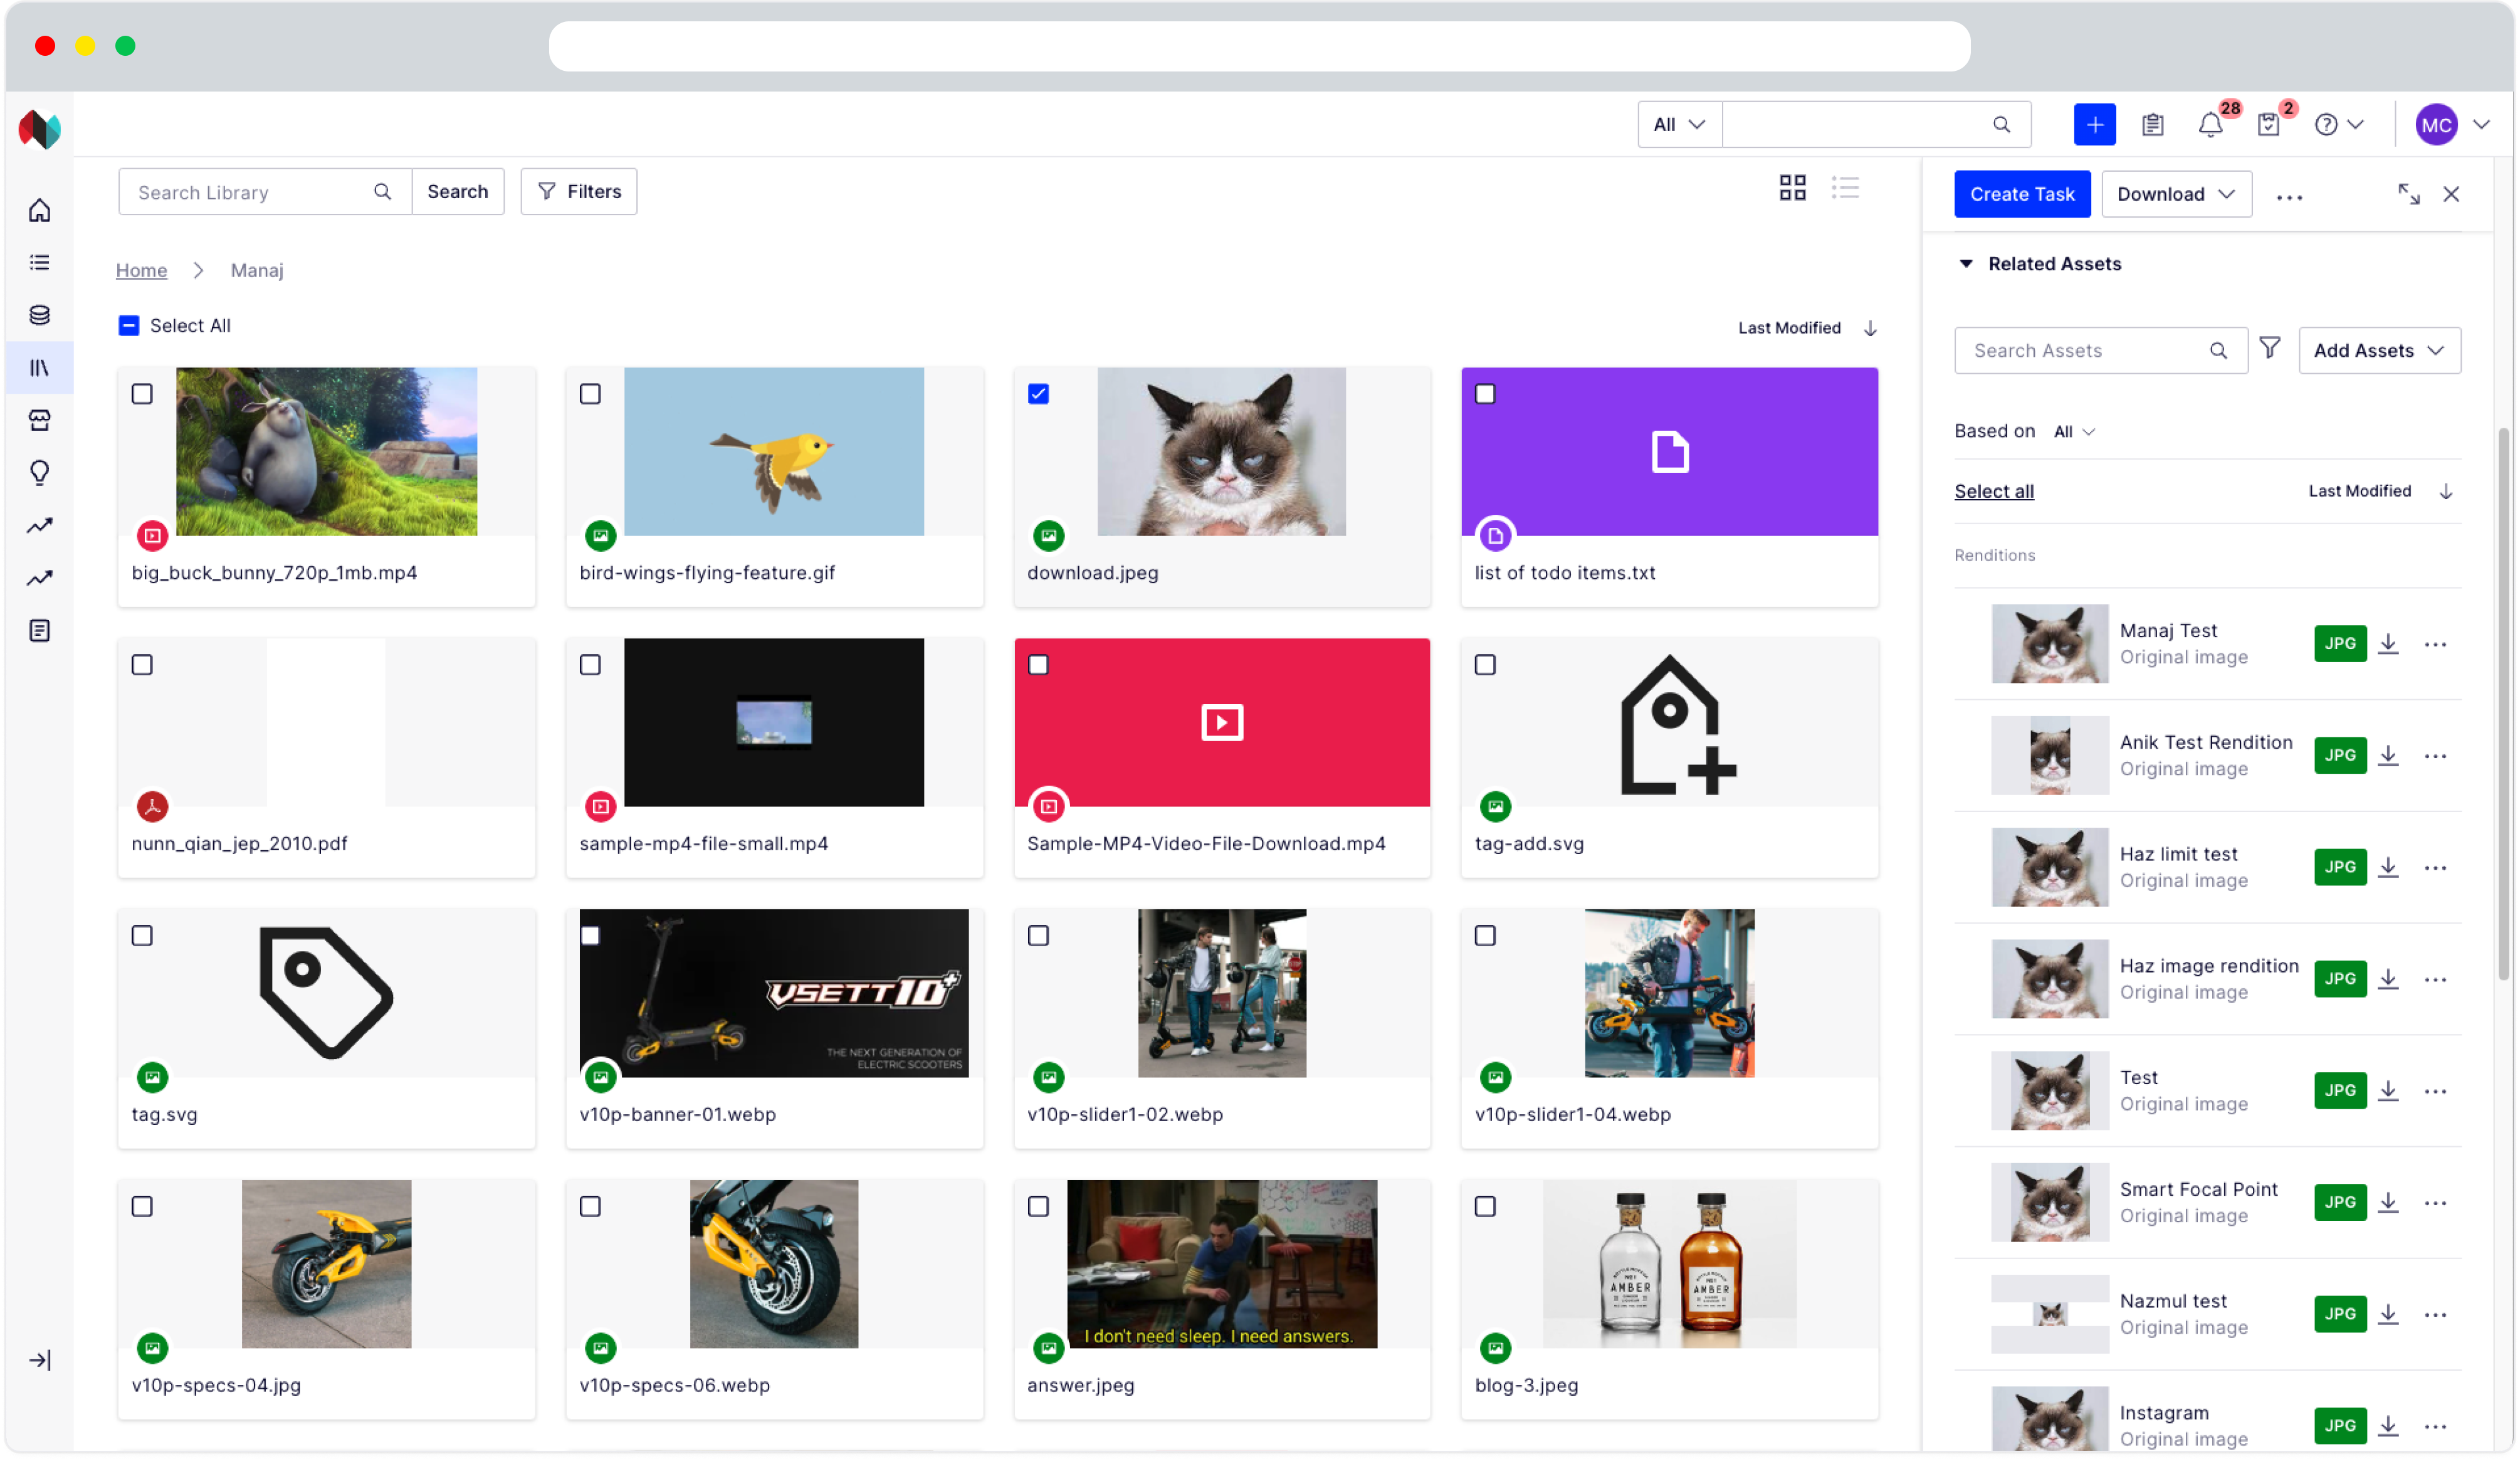
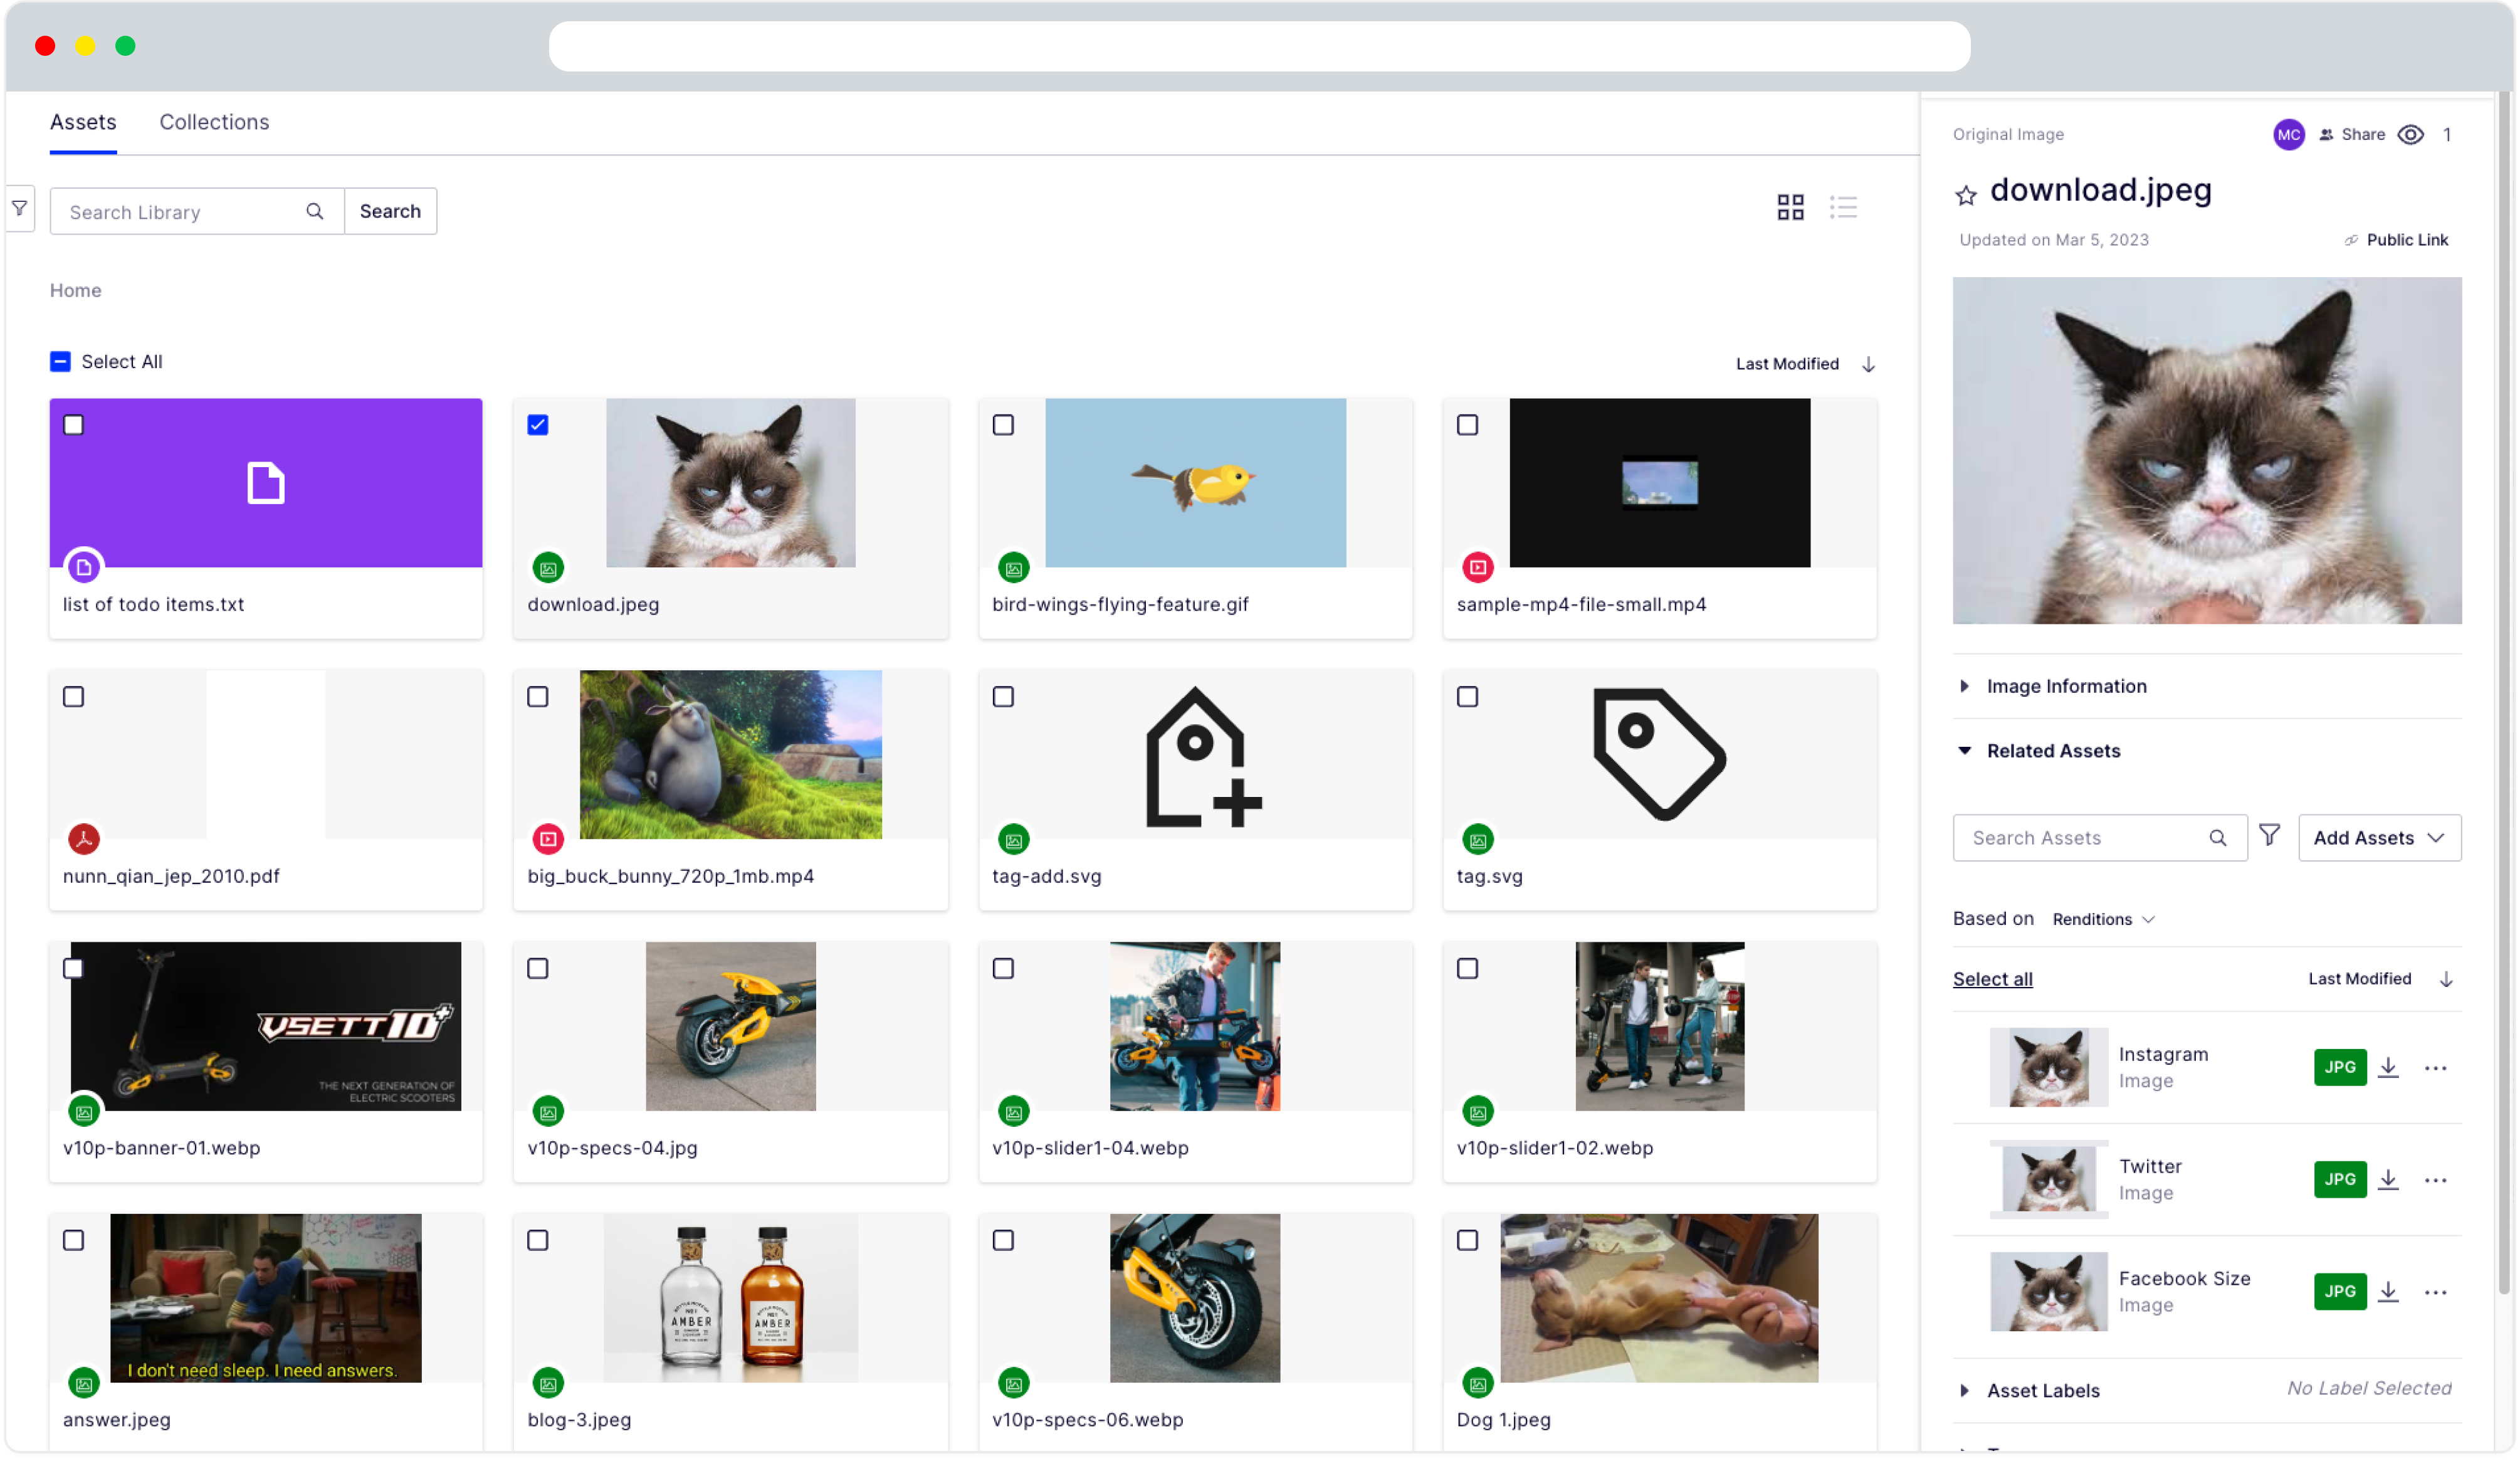
Added rendition page updates

diff --git a/src/styles/components/_type.scss b/src/styles/components/_type.scss
@@ -8,12 +8,18 @@ h1, h3, h4, h5 {
   font-weight: 500;
 }
 
+h1 {
+  font-size: var(--spacer-three);
+  line-height: var(--spacer-three);
+  font-weight: 500;
+  margin: var(--spacer-one) 0 var(--spacer-twoandquarter) 0;
+}
+
 h2 {
   font-size: var(--spacer-twoandquarter);
   line-height: var(--spacer-three);
   font-weight: 400;
-  margin: var(--spacer-twoandquarter) 0 0 0;
-  
+  margin: var(--spacer-twoandquarter) 0 var(--spacer-twoandquarter) 0;
 }
 
 h3 {
@@ -42,6 +48,64 @@ h5 {
 
 a {
   display: block;
+  color: var(--color-black);
+  text-decoration: none;
+
+  &:hover {
+    text-decoration: underline;
+  }
+}
+
+ figcaption {
+   margin: var(--spacer-one) 0;
+   text-align: left;
+   font-size: var(--spacer-one);
+   font-family: var(--font-primary);
+   font-weight: 300;
+ }
+ 
+ p {
+   font-size: var(--spacer-oneandquarter);
+   line-height: var(--spacer-two);
+   font-weight: var(--font-light);
+   font-family: var(--font-primary);
+   letter-spacing: var(--font-letter-spacing-3);
+
+   &:last-child {
+     margin-bottom: var(--spacer-five);
+   }
+ }
+
+article {
+  .subheading {
+      font-size: var(--spacer-two);
+      font-weight: 300;
+      line-height: var(--spacer-twoandhalf);
+      margin: var(--spacer-two) 0 var(--spacer-two) 0;
+      color: var(--color-gray-900);
+    }
+
+    p {
+      font-size: var(--spacer-oneandquarter);
+      line-height: var(--spacer-two);
+      font-weight: var(--font-light);
+      font-family: var(--font-primary);
+      letter-spacing: var(--font-letter-spacing-3);
+
+      &:last-child {
+        margin-bottom: var(--spacer-five);
+      }
+    }
+
+    h3 {
+      margin-top: var(--spacer-four);
+    }
+}
+
+a {
+  text-decoration: none;
+  font-weight: 500;
+  color: var(--color-blue);
 
   &:hover {
     text-decoration: underline;

diff --git a/src/styles/workspages.scss b/src/styles/workspages.scss
@@ -9,6 +9,39 @@
 "components/utility",
 "components/footer";
 
+body {
+    background-color: var(--color-gray-100);
+}
+
 header {
     margin: var(--spacer-three) 0 var(--spacer-two) 0;
+    background-color: var(--color-gray-100);
+}
+
+.workspage {
+    min-height: 20vw;
+    background-color: var(--color-gray-100);
+    position: relative;
+
+    section.inner {
+        display: grid;
+        grid: auto-flow / 1fr 3fr;
+        margin: var(--spacer-two) auto 0 auto;
+    }
+
+    .article-navigation {
+        @extend h5;
+        position: relative;
+        font-weight: 400;
+        margin-right: var(--spacer-oneandhalf);
+        
+        li {
+            padding: var(--spacer-half) 0;
+        }
+
+        ul {
+            position: sticky;
+            top: var(--spacer-five);
+        }
+    }   
 }

diff --git a/src/styles/components/_variables.scss b/src/styles/components/_variables.scss
@@ -1,8 +1,11 @@
 $font: (
-    "primary": "'DM Sans', SF Pro, Helvetica, Calibri, Arial, sans-serif;",
+    "primary": "'DM Sans', Helvetica, Calibri, Arial, sans-serif;",
     "secondary": "'Urbanist', Century Gothic, Helvetica, system-ui;",
     "letter-spacing-4": "-0.04rem;",
-    "letter-spacing-3": "-0.03rem;"
+    "letter-spacing-3": "-0.03rem;",
+    "medium": "500",
+    "normal": "400",
+    "light": "300"
 );
 
 $colors: (
@@ -11,21 +14,26 @@ $colors: (
     "yellow-lighter": "#FFE700;",
     "yellow-light": "#FFF122;",
     "indigo": "#E4F3F1;",
+    "turquoise": "#32E2C3;",
+    "blue": '#0057A8;',
     "black": "#171921;",
     "white": "#ffffff;",
-    "turquoise": "#32E2C3;",
-    "blue": '#0057A8;'
-    ) !default;
+    "gray-100":'#F4F4F2;',
+    "gray-900":'#515151;',
+    )!default;
     
 $spacer: 1rem;
 $spacers: (
     "zero" : 0,
     "quarter": $spacer * .25,
     "half": $spacer * .5,
+    "threequarter": $spacer * .75,
     "one": $spacer,
+    "oneandquarter": $spacer * 1.25,
     "oneandhalf": $spacer * 1.5,
     "two": $spacer * 2,
     "twoandquarter": $spacer * 2.25,
+    "twoandhalf": $spacer * 2.5,
     "three": $spacer * 3,
     "four": $spacer * 4,
     "five": $spacer * 5

diff --git a/src/styles/components/_utility.scss b/src/styles/components/_utility.scss
@@ -10,11 +10,12 @@
     width: var(--logo-width);
 }
 
-footer a {
-    padding: var(--spacer-quarter) var(--spacer-half);
+figure {
+    margin: var(--spacer-two) 0 var(--spacer-two) 0;
+}
+
+.fancy {
     text-decoration: none;
-    font-weight: 500;
-    color: var(--color-blue);
     box-shadow: inset 0 0 0 0 var(--color-yellow);
     transition: color .3s ease-in-out, box-shadow .3s ease-in-out;
     border-radius: var(--spacer-quarter);

diff --git a/src/styles/components/_footer.scss b/src/styles/components/_footer.scss
@@ -1,5 +1,10 @@
 footer {
-    margin: var(--spacer-three) auto;
+    padding: var(--spacer-two) 0;
+    background-color: var(--color-white);
+
+    a {
+        padding: var(--spacer-quarter) var(--spacer-half);
+    }
 }
 
 .credits, .contact {

diff --git a/src/styles/components/_grid.scss b/src/styles/components/_grid.scss
@@ -3,10 +3,9 @@
 }
 
 .box {
-    background-color: var(--color-white);
     margin-right: auto;
     margin-left: auto;
-    width: 100%;
+    box-sizing: border-box;
     @extend .grid;
 
     .inner {

diff --git a/public/scripts/homepage.js b/public/scripts/homepage.js
@@ -55,7 +55,7 @@ function paralox (){
 
             });
 
-            if (speed > ((coverHeight - logoHeight) - 80)) {
+            if (speed > ((coverHeight - logoHeight) - 180)) {
                 $('.cover').addClass('fix');
             } else {
                 $('.cover').removeClass('fix');

diff --git a/src/styles/components/_fonts.scss b/src/styles/components/_fonts.scss
@@ -1,1 +1,1 @@
-@import url('https://fonts.googleapis.com/css2?family=DM+Sans:wght@400;500&family=Urbanist:wght@300;400;500&display=swap');
+@import url('https://fonts.googleapis.com/css2?family=DM+Sans:wght@300;400;500&family=Urbanist:ital,wght@0,300;0,400;0,500;1,400&display=swap');

diff --git a/src/styles/homepage.scss b/src/styles/homepage.scss
@@ -44,8 +44,6 @@
     }
 
     .experience p {
-        font-size: var(--spacer-one);
-        line-height: var(--spacer-oneandhalf);
         width: 70%;
         margin: 0;
     }

diff --git a/src/styles/css/_reset.scss b/src/styles/css/_reset.scss
@@ -10,6 +10,7 @@
 
 html {
     line-height: 1.15;
+    scroll-behavior: smooth;
     /* 1 */
     -webkit-text-size-adjust: 100%;
     /* 2 */